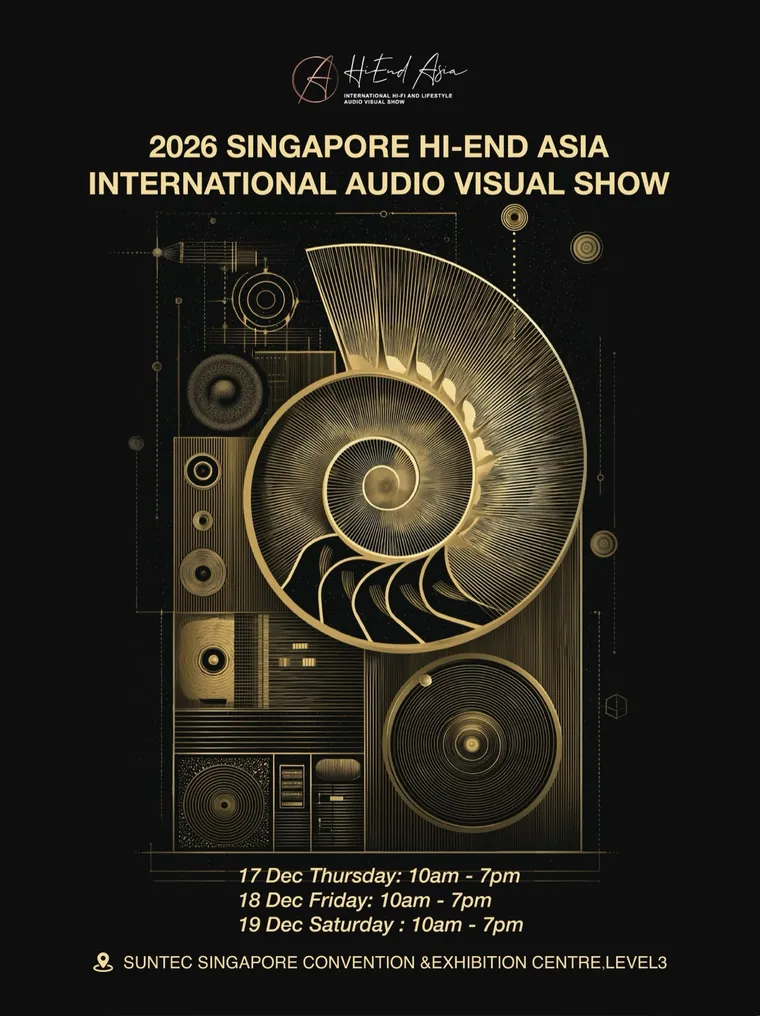
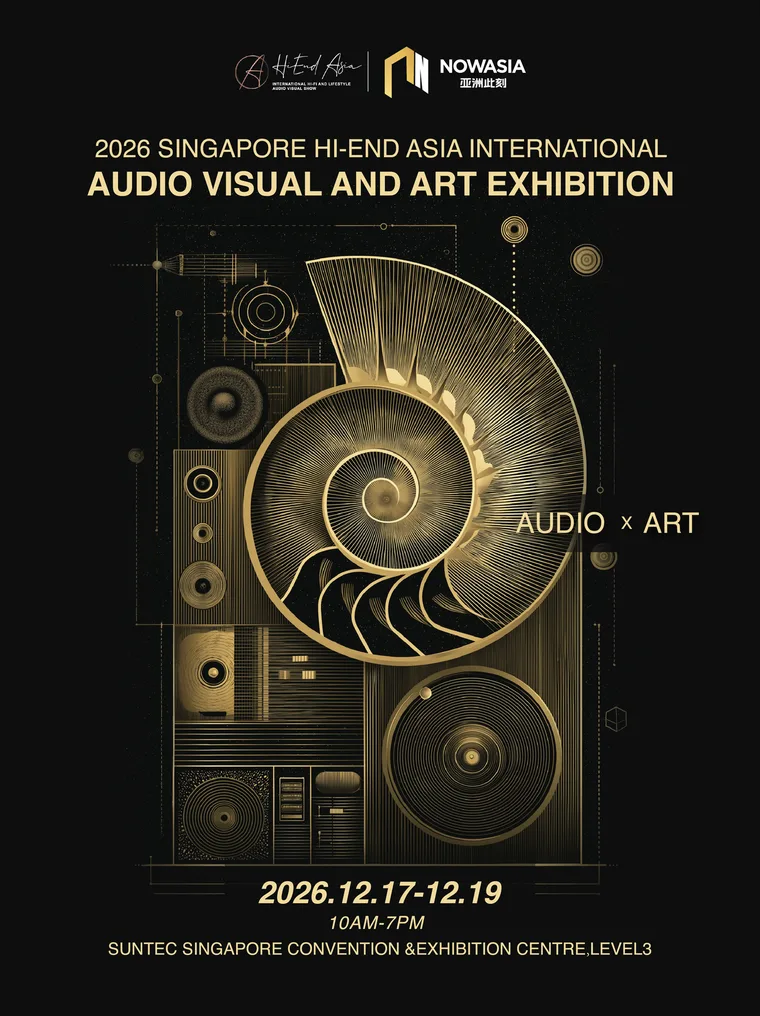
Hero poster: 2026 Audio Visual and Art Exhibition poster (English; Chinese edition on zh pages); refresh share image
Claude-Session: https://claude.ai/code/session_015zDuTJLJ5T6chkEGSPZKou

diff --git a/zh-Hant/index.html b/zh-Hant/index.html
@@ -23,7 +23,7 @@
 <link rel="alternate" hreflang="th" href="https://christophertanenso.github.io/hiendasia-2026/th/">
 <link rel="alternate" hreflang="vi" href="https://christophertanenso.github.io/hiendasia-2026/vi/">
 <link rel="alternate" hreflang="x-default" href="https://christophertanenso.github.io/hiendasia-2026/">
-<link rel="preload" as="image" href="../img/000-1242.webp" imagesrcset="../img/000-640.webp 640w, ../img/000-760.webp 760w, ../img/000-960.webp 960w, ../img/000-1242.webp 1242w" imagesizes="(max-width: 960px) calc(100vw - 32px), min(920px, 60vw)" fetchpriority="high">
+<link rel="preload" as="image" href="../img/000zh-1242.webp" imagesrcset="../img/000zh-640.webp 640w, ../img/000zh-760.webp 760w, ../img/000zh-960.webp 960w, ../img/000zh-1242.webp 1242w" imagesizes="(max-width: 960px) calc(100vw - 32px), min(920px, 60vw)" fetchpriority="high">
 <script type="application/ld+json">{"@context": "https://schema.org", "@type": "Event", "name": "2026 Singapore Hi-End Asia International Audio Visual Show", "inLanguage": "zh-Hant", "url": "https://christophertanenso.github.io/hiendasia-2026/zh-Hant/", "startDate": "2026-12-17T10:00:00+08:00", "endDate": "2026-12-19T19:00:00+08:00", "eventStatus": "https://schema.org/EventScheduled", "eventAttendanceMode": "https://schema.org/OfflineEventAttendanceMode", "location": {"@type": "Place", "name": "Suntec Singapore Convention & Exhibition Centre, Level 3", "address": {"@type": "PostalAddress", "streetAddress": "1 Raffles Boulevard", "postalCode": "039593", "addressCountry": "SG"}}, "image": ["https://christophertanenso.github.io/hiendasia-2026/img/000.jpg", "https://christophertanenso.github.io/hiendasia-2026/img/og-2026.jpg"], "description": "2026年12月17–19日，新加坡新達城3樓。免費入場。逾150個高端音響品牌、試聽室、主題演講與嘉賓現場演出。", "isAccessibleForFree": true, "offers": {"@type": "Offer", "price": "0", "priceCurrency": "SGD", "availability": "https://schema.org/InStock", "url": "https://christophertanenso.github.io/hiendasia-2026/zh-Hant/"}, "organizer": {"@type": "Organization", "name": "HiEnd Asia + Pte. Ltd", "url": "https://www.hiendasia.com/"}}</script>
 <title>HiEnd Asia 2026</title>
 <meta name="claude:viewport-fit-sides" content="cover">
@@ -790,7 +790,7 @@ section.block > .wrap { padding-block: var(--space-xl); display: flex; flex-dire
       </div>
     </div>
     <div class="hero-poster">
-      <button class="poster-btn" type="button" data-zoom aria-label="檢視海報原尺寸" data-i18n-attr="aria-label:poster.zoom"><img src="../img/000-1242.webp" srcset="../img/000-640.webp 640w, ../img/000-760.webp 760w, ../img/000-960.webp 960w, ../img/000-1242.webp 1242w" sizes="(max-width: 960px) calc(100vw - 32px), min(920px, 60vw)" alt="官方海報：2026 新加坡 Hi-End Asia 國際音響影音展，12月17日至19日，Suntec Singapore 三樓" data-i18n-attr="alt:poster.alt" width="1242" height="1660" fetchpriority="high"></button>
+      <button class="poster-btn" type="button" data-zoom aria-label="檢視海報原尺寸" data-i18n-attr="aria-label:poster.zoom"><img src="../img/000zh-1242.webp" srcset="../img/000zh-640.webp 640w, ../img/000zh-760.webp 760w, ../img/000zh-960.webp 960w, ../img/000zh-1242.webp 1242w" sizes="(max-width: 960px) calc(100vw - 32px), min(920px, 60vw)" alt="官方海報：2026 新加坡 Hi-End Asia 國際音響影音展，12月17日至19日，Suntec Singapore 三樓" data-i18n-attr="alt:poster.alt" width="1242" height="1660" fetchpriority="high"></button>
       <button class="poster-hint" type="button" data-zoom data-i18n="poster.hint">檢視海報原尺寸</button>
     </div>
   </div>
@@ -1142,7 +1142,7 @@ section.block > .wrap { padding-block: var(--space-xl); display: flex; flex-dire
 
 <div class="lightbox" id="lightbox" role="dialog" aria-modal="true" aria-label="官方海報原尺寸" data-i18n-attr="aria-label:lb.aria" hidden>
   <button class="btn btn-outline btn-sm lb-close" type="button" id="lbClose" data-i18n="lb.close">關閉</button>
-  <img src="../img/000-1242.webp" alt="官方海報：2026 新加坡 Hi-End Asia 國際音響影音展，12月17日至19日，Suntec Singapore 三樓" data-i18n-attr="alt:poster.alt" width="1242" height="1660" loading="lazy">
+  <img src="../img/000zh-1242.webp" alt="官方海報：2026 新加坡 Hi-End Asia 國際音響影音展，12月17日至19日，Suntec Singapore 三樓" data-i18n-attr="alt:poster.alt" width="1242" height="1660" loading="lazy">
 </div>
 
 <footer class="site-foot">

diff --git a/zh-Hans/index.html b/zh-Hans/index.html
@@ -23,7 +23,7 @@
 <link rel="alternate" hreflang="th" href="https://christophertanenso.github.io/hiendasia-2026/th/">
 <link rel="alternate" hreflang="vi" href="https://christophertanenso.github.io/hiendasia-2026/vi/">
 <link rel="alternate" hreflang="x-default" href="https://christophertanenso.github.io/hiendasia-2026/">
-<link rel="preload" as="image" href="../img/000-1242.webp" imagesrcset="../img/000-640.webp 640w, ../img/000-760.webp 760w, ../img/000-960.webp 960w, ../img/000-1242.webp 1242w" imagesizes="(max-width: 960px) calc(100vw - 32px), min(920px, 60vw)" fetchpriority="high">
+<link rel="preload" as="image" href="../img/000zh-1242.webp" imagesrcset="../img/000zh-640.webp 640w, ../img/000zh-760.webp 760w, ../img/000zh-960.webp 960w, ../img/000zh-1242.webp 1242w" imagesizes="(max-width: 960px) calc(100vw - 32px), min(920px, 60vw)" fetchpriority="high">
 <script type="application/ld+json">{"@context": "https://schema.org", "@type": "Event", "name": "2026 Singapore Hi-End Asia International Audio Visual Show", "inLanguage": "zh-Hans", "url": "https://christophertanenso.github.io/hiendasia-2026/zh-Hans/", "startDate": "2026-12-17T10:00:00+08:00", "endDate": "2026-12-19T19:00:00+08:00", "eventStatus": "https://schema.org/EventScheduled", "eventAttendanceMode": "https://schema.org/OfflineEventAttendanceMode", "location": {"@type": "Place", "name": "Suntec Singapore Convention & Exhibition Centre, Level 3", "address": {"@type": "PostalAddress", "streetAddress": "1 Raffles Boulevard", "postalCode": "039593", "addressCountry": "SG"}}, "image": ["https://christophertanenso.github.io/hiendasia-2026/img/000.jpg", "https://christophertanenso.github.io/hiendasia-2026/img/og-2026.jpg"], "description": "2026年12月17–19日，新加坡新达城3楼。免费入场。150多个高端音响品牌、试听室、主题演讲与嘉宾现场演出。", "isAccessibleForFree": true, "offers": {"@type": "Offer", "price": "0", "priceCurrency": "SGD", "availability": "https://schema.org/InStock", "url": "https://christophertanenso.github.io/hiendasia-2026/zh-Hans/"}, "organizer": {"@type": "Organization", "name": "HiEnd Asia + Pte. Ltd", "url": "https://www.hiendasia.com/"}}</script>
 <title>HiEnd Asia 2026</title>
 <meta name="claude:viewport-fit-sides" content="cover">
@@ -790,7 +790,7 @@ section.block > .wrap { padding-block: var(--space-xl); display: flex; flex-dire
       </div>
     </div>
     <div class="hero-poster">
-      <button class="poster-btn" type="button" data-zoom aria-label="查看海报原尺寸" data-i18n-attr="aria-label:poster.zoom"><img src="../img/000-1242.webp" srcset="../img/000-640.webp 640w, ../img/000-760.webp 760w, ../img/000-960.webp 960w, ../img/000-1242.webp 1242w" sizes="(max-width: 960px) calc(100vw - 32px), min(920px, 60vw)" alt="官方海报：2026 新加坡 Hi-End Asia 国际视听展，12月17日至19日，Suntec Singapore 三楼" data-i18n-attr="alt:poster.alt" width="1242" height="1660" fetchpriority="high"></button>
+      <button class="poster-btn" type="button" data-zoom aria-label="查看海报原尺寸" data-i18n-attr="aria-label:poster.zoom"><img src="../img/000zh-1242.webp" srcset="../img/000zh-640.webp 640w, ../img/000zh-760.webp 760w, ../img/000zh-960.webp 960w, ../img/000zh-1242.webp 1242w" sizes="(max-width: 960px) calc(100vw - 32px), min(920px, 60vw)" alt="官方海报：2026 新加坡 Hi-End Asia 国际视听展，12月17日至19日，Suntec Singapore 三楼" data-i18n-attr="alt:poster.alt" width="1242" height="1660" fetchpriority="high"></button>
       <button class="poster-hint" type="button" data-zoom data-i18n="poster.hint">查看海报大图</button>
     </div>
   </div>
@@ -1142,7 +1142,7 @@ section.block > .wrap { padding-block: var(--space-xl); display: flex; flex-dire
 
 <div class="lightbox" id="lightbox" role="dialog" aria-modal="true" aria-label="官方海报原尺寸" data-i18n-attr="aria-label:lb.aria" hidden>
   <button class="btn btn-outline btn-sm lb-close" type="button" id="lbClose" data-i18n="lb.close">关闭</button>
-  <img src="../img/000-1242.webp" alt="官方海报：2026 新加坡 Hi-End Asia 国际视听展，12月17日至19日，Suntec Singapore 三楼" data-i18n-attr="alt:poster.alt" width="1242" height="1660" loading="lazy">
+  <img src="../img/000zh-1242.webp" alt="官方海报：2026 新加坡 Hi-End Asia 国际视听展，12月17日至19日，Suntec Singapore 三楼" data-i18n-attr="alt:poster.alt" width="1242" height="1660" loading="lazy">
 </div>
 
 <footer class="site-foot">

diff --git a/artifact.html b/artifact.html
@@ -760,7 +760,7 @@ section.block > .wrap { padding-block: var(--space-xl); display: flex; flex-dire
       </div>
     </div>
     <div class="hero-poster">
-      <button class="poster-btn" type="button" data-zoom aria-label="View the poster full size" data-i18n-attr="aria-label:poster.zoom"><img src="img/000-1242.webp" srcset="img/000-640.webp 640w, img/000-760.webp 760w, img/000-960.webp 960w, img/000-1242.webp 1242w" sizes="(max-width: 960px) calc(100vw - 32px), min(920px, 60vw)" alt="Official poster: 2026 Singapore Hi-End Asia International Audio Visual Show, 17 to 19 December, Suntec Singapore Level 3" data-i18n-attr="alt:poster.alt" width="1242" height="1660" fetchpriority="high"></button>
+      <button class="poster-btn" type="button" data-zoom aria-label="View the poster full size" data-i18n-attr="aria-label:poster.zoom"><img src="img/000-1242.webp" srcset="img/000-640.webp 640w, img/000-760.webp 760w, img/000-960.webp 960w, img/000-1242.webp 1242w" sizes="(max-width: 960px) calc(100vw - 32px), min(920px, 60vw)" alt="Official poster: 2026 Singapore Hi-End Asia International Audio Visual and Art Exhibition, with NOWASIA, 17 to 19 December, Suntec Singapore Level 3" data-i18n-attr="alt:poster.alt" width="1242" height="1660" fetchpriority="high"></button>
       <button class="poster-hint" type="button" data-zoom data-i18n="poster.hint">View poster full size</button>
     </div>
   </div>
@@ -1112,7 +1112,7 @@ section.block > .wrap { padding-block: var(--space-xl); display: flex; flex-dire
 
 <div class="lightbox" id="lightbox" role="dialog" aria-modal="true" aria-label="Official poster, full size" data-i18n-attr="aria-label:lb.aria" hidden>
   <button class="btn btn-outline btn-sm lb-close" type="button" id="lbClose" data-i18n="lb.close">Close</button>
-  <img src="img/000-1242.webp" alt="Official poster: 2026 Singapore Hi-End Asia International Audio Visual Show, 17 to 19 December, Suntec Singapore Level 3" data-i18n-attr="alt:poster.alt" width="1242" height="1660" loading="lazy">
+  <img src="img/000-1242.webp" alt="Official poster: 2026 Singapore Hi-End Asia International Audio Visual and Art Exhibition, with NOWASIA, 17 to 19 December, Suntec Singapore Level 3" data-i18n-attr="alt:poster.alt" width="1242" height="1660" loading="lazy">
 </div>
 
 <footer class="site-foot">

diff --git a/index.html b/index.html
@@ -788,7 +788,7 @@ section.block > .wrap { padding-block: var(--space-xl); display: flex; flex-dire
       </div>
     </div>
     <div class="hero-poster">
-      <button class="poster-btn" type="button" data-zoom aria-label="View the poster full size" data-i18n-attr="aria-label:poster.zoom"><img src="img/000-1242.webp" srcset="img/000-640.webp 640w, img/000-760.webp 760w, img/000-960.webp 960w, img/000-1242.webp 1242w" sizes="(max-width: 960px) calc(100vw - 32px), min(920px, 60vw)" alt="Official poster: 2026 Singapore Hi-End Asia International Audio Visual Show, 17 to 19 December, Suntec Singapore Level 3" data-i18n-attr="alt:poster.alt" width="1242" height="1660" fetchpriority="high"></button>
+      <button class="poster-btn" type="button" data-zoom aria-label="View the poster full size" data-i18n-attr="aria-label:poster.zoom"><img src="img/000-1242.webp" srcset="img/000-640.webp 640w, img/000-760.webp 760w, img/000-960.webp 960w, img/000-1242.webp 1242w" sizes="(max-width: 960px) calc(100vw - 32px), min(920px, 60vw)" alt="Official poster: 2026 Singapore Hi-End Asia International Audio Visual and Art Exhibition, with NOWASIA, 17 to 19 December, Suntec Singapore Level 3" data-i18n-attr="alt:poster.alt" width="1242" height="1660" fetchpriority="high"></button>
       <button class="poster-hint" type="button" data-zoom data-i18n="poster.hint">View poster full size</button>
     </div>
   </div>
@@ -1140,7 +1140,7 @@ section.block > .wrap { padding-block: var(--space-xl); display: flex; flex-dire
 
 <div class="lightbox" id="lightbox" role="dialog" aria-modal="true" aria-label="Official poster, full size" data-i18n-attr="aria-label:lb.aria" hidden>
   <button class="btn btn-outline btn-sm lb-close" type="button" id="lbClose" data-i18n="lb.close">Close</button>
-  <img src="img/000-1242.webp" alt="Official poster: 2026 Singapore Hi-End Asia International Audio Visual Show, 17 to 19 December, Suntec Singapore Level 3" data-i18n-attr="alt:poster.alt" width="1242" height="1660" loading="lazy">
+  <img src="img/000-1242.webp" alt="Official poster: 2026 Singapore Hi-End Asia International Audio Visual and Art Exhibition, with NOWASIA, 17 to 19 December, Suntec Singapore Level 3" data-i18n-attr="alt:poster.alt" width="1242" height="1660" loading="lazy">
 </div>
 
 <footer class="site-foot">

diff --git a/build.py b/build.py
@@ -195,6 +195,10 @@ ICON_WA = ('<svg viewBox="0 0 24 24" fill="currentColor" aria-hidden="true"><pat
 # Hero poster: responsive WebP made from img/000.jpg (see README). The JPEG stays for search/structured data.
 POSTER = 'img/000-1242.webp'
 POSTER_SRCSET = 'img/000-640.webp 640w, img/000-760.webp 760w, img/000-960.webp 960w, img/000-1242.webp 1242w'
+def pz(v, lang):
+    """Chinese pages get the Chinese edition of the poster."""
+    return v.replace('img/000-', 'img/000zh-') if lang.startswith('zh') else v
+
 POSTER_SIZES = '(max-width: 960px) calc(100vw - 32px), min(920px, 60vw)'
 OG_IMAGE = 'img/og-2026.jpg'  # 1200x630 landscape for WhatsApp, Facebook, LinkedIn, X
 
@@ -295,7 +299,7 @@ def render(lang, base, auto, page_url):
         '{{GUESTS}}': '\n'.join(person_card(i, b) for i, b in GUESTS),
         '{{REPS}}': rep_html, '{{DEALERS}}': tiles(DEALER_IDX), '{{BRANDS}}': tiles(BRAND_IDX),
         '{{MEDIA}}': '\n'.join('<li>%s</li>' % e(m) for m in MEDIA),
-        '{{POSTER}}': POSTER, '{{POSTER_SRCSET}}': POSTER_SRCSET, '{{POSTER_SIZES}}': POSTER_SIZES,
+        '{{POSTER}}': pz(POSTER, lang), '{{POSTER_SRCSET}}': pz(POSTER_SRCSET, lang), '{{POSTER_SIZES}}': POSTER_SIZES,
         '{{FLOOR}}': 'img/floorplan-2026.webp', '{{SUNTEC_IN}}': img(8), '{{SUNTEC_NIGHT}}': img(9),
         '{{PAGE_LANG}}': lang, '{{BASE}}': base, '{{AUTO_LANG}}': 'true' if auto else 'false',
         '{{PAGE_URL}}': page_url, '{{LANG_FONT}}': lang_font(lang),
@@ -350,7 +354,7 @@ def document(lang):
 <link rel="canonical" href="{url}">
 {alternates}
 <link rel="alternate" hreflang="x-default" href="{PAGES}">
-<link rel="preload" as="image" href="{base}{POSTER}" imagesrcset="{re.sub(r'(^|, )img/', lambda m: m.group(1) + base + 'img/', POSTER_SRCSET)}" imagesizes="{POSTER_SIZES}" fetchpriority="high">
+<link rel="preload" as="image" href="{base}{pz(POSTER, lang)}" imagesrcset="{re.sub(r'(^|, )img/', lambda m: m.group(1) + base + 'img/', pz(POSTER_SRCSET, lang))}" imagesizes="{POSTER_SIZES}" fetchpriority="high">
 <script type="application/ld+json">{ld}</script>
 {head.strip()}
 </head>
